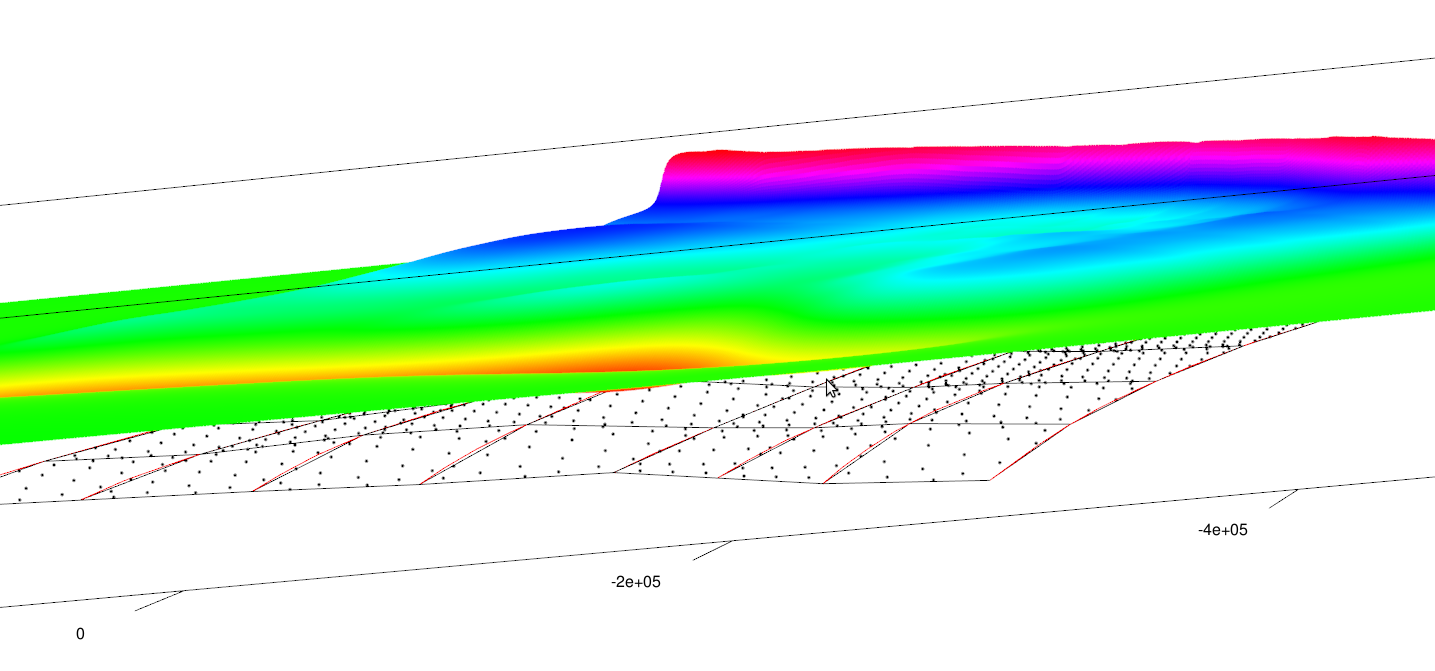
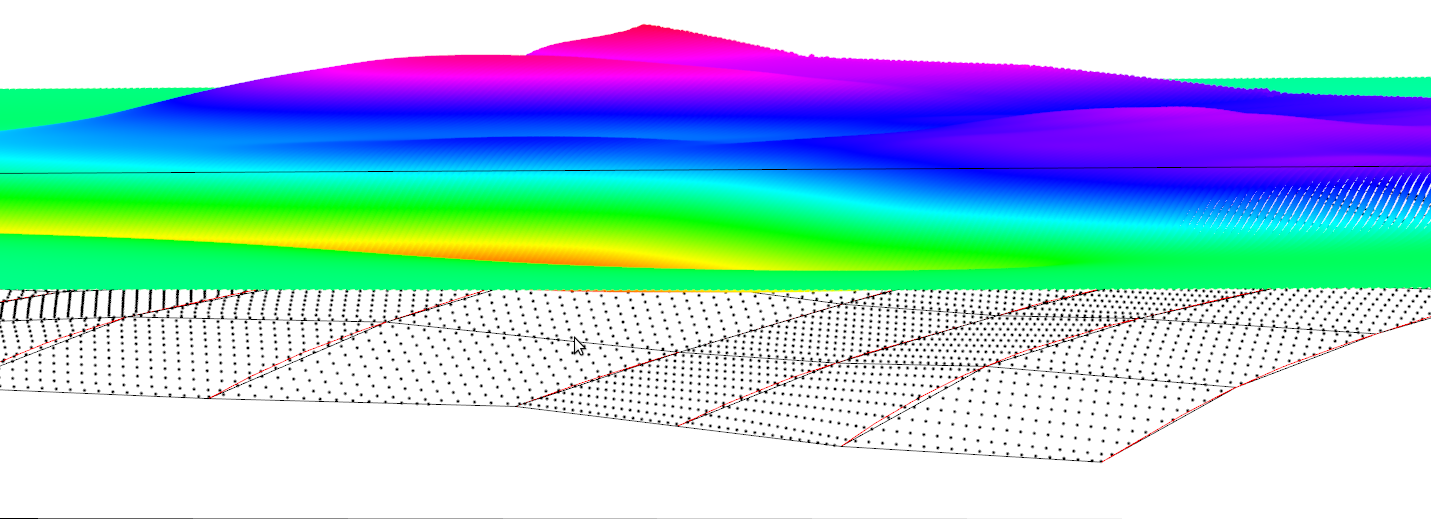
Figure update

diff --git a/R/source_contours_2_unit_sources/tutorial.md b/R/source_contours_2_unit_sources/tutorial.md
@@ -231,15 +231,16 @@ okada_distance_factor = 50 # Inf
 elevation_raster = NULL 
 # elevation_raster = raster('../RAW/GEBCO/gebco_08.nc')
 
-# For computational efficiency, only compute Kajiura filtering in a box
+# For computational efficiency, only apply Kajiura filtering in a box
 # containing all points where the unit source deformation exceeds
-# kajiura_use_threshold. If in doubt 
+# kajiura_use_threshold. Set to zero to apply Kajiura filter everywhere.
+# Use of a small positive number can be faster.
 kajiura_use_threshold = 1.0e-04
 
 # When applying the kajiura filter, the data is regridded onto a grid with
-# spacing=kajiura_gridsize. The latter should be small compared to the
+# spacing=kajiura_gridspacing. The latter should be small compared to the
 # horizontal distance over which the deformation changes significantly
-kajiura_gridsize = 1000 # m
+kajiura_grid_spacing = 1000 # m
 
 # Cell size for output rasters
 tsunami_source_cellsize = 1/60 # degrees

diff --git a/R/source_contours_2_unit_sources/README.md b/R/source_contours_2_unit_sources/README.md
@@ -7,9 +7,7 @@ The code **'[produce_unit_sources.R](produce_unit_sources.R)'** gives an example
 For more information on its usage, click on the **'[tutorial.md](tutorial.md)'** file.
 
 The last part of the code can be used to makes a 3D interactive plot (supports
-zoom, pan, rotate), like in the screenshot below.  Note that the high ridge of
-deformation is caused by the slip abruptly changing from 1m to 0m above a depth
-of 6km.
+zoom, pan, rotate), like in the screenshot below.  
 ![planview](ThreeD_plot.png?raw=true)
 
 
